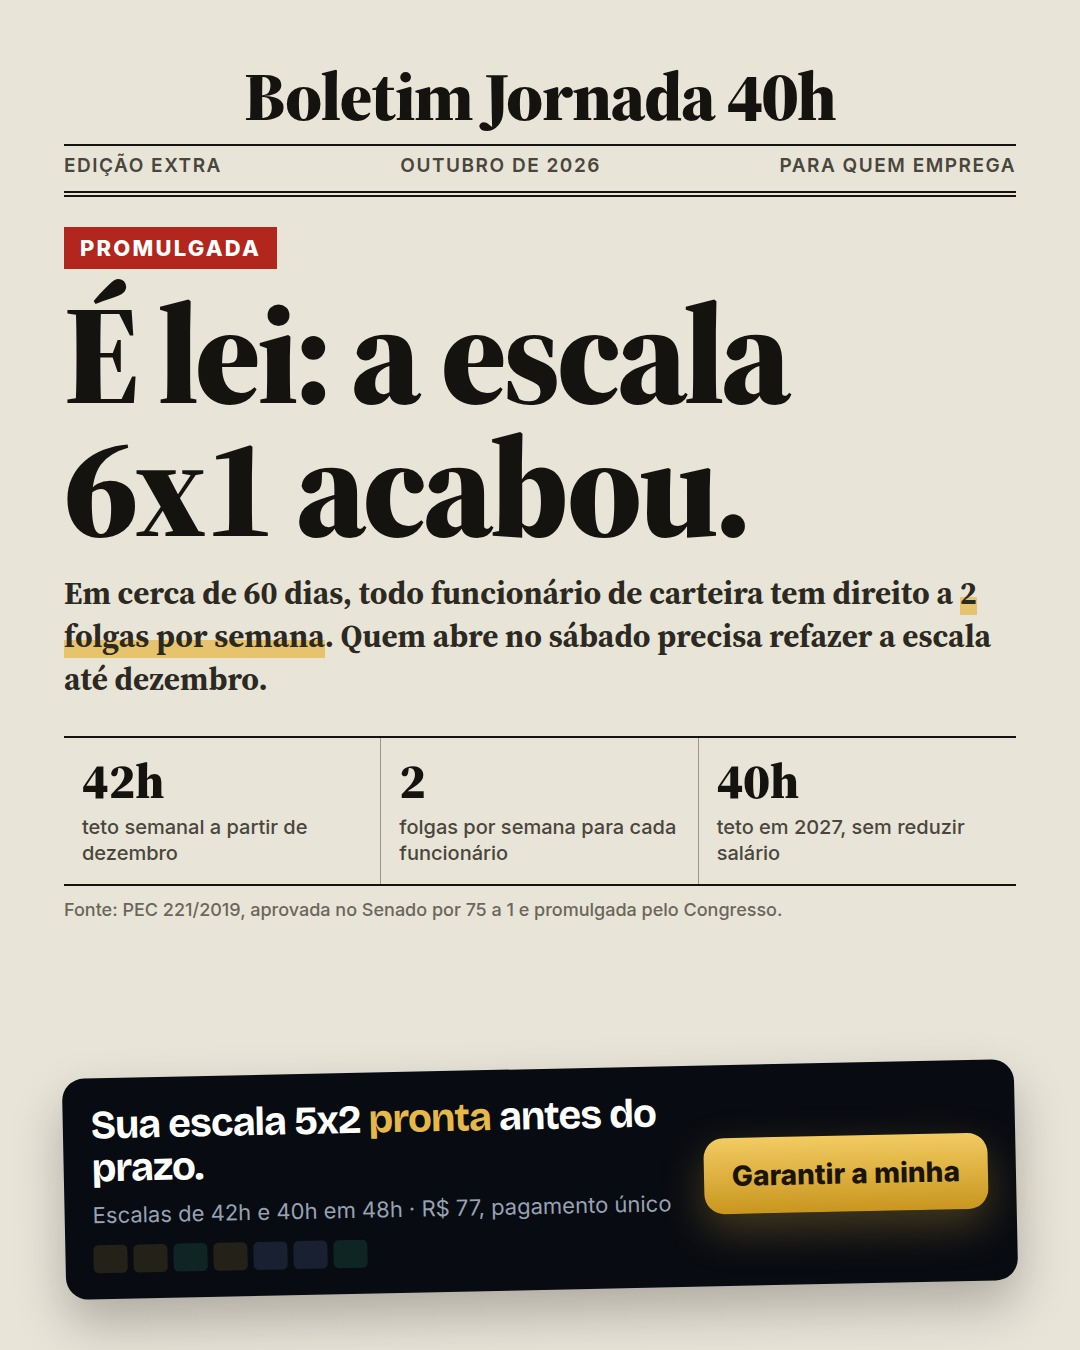
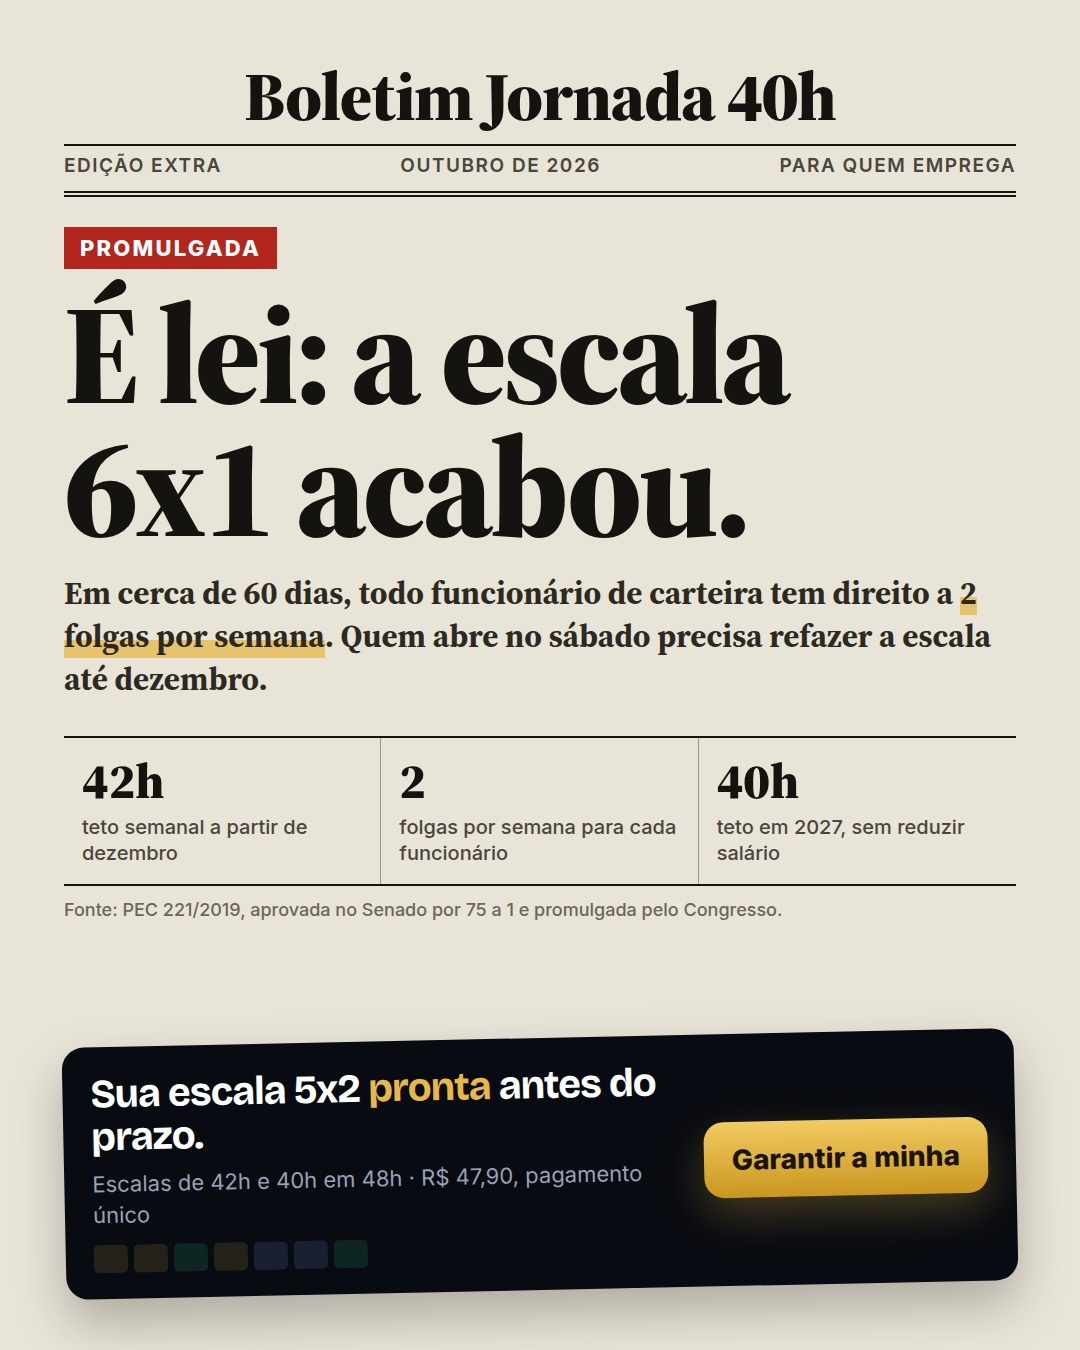
Criativos com R$ 47,90 e sem "grátis"; imagens públicas em site/ads/ para criar anúncios pela API
Claude-Session: https://claude.ai/code/session_013Lr8mQXt3cVjhu3fx1nCZP

Changed region(s): [[0.0611, 0.7467, 0.9472, 0.9022]]

diff --git a/criativos/v5-noticia/02-quando-vale-story.html b/criativos/v5-noticia/02-quando-vale-story.html
@@ -23,7 +23,7 @@
     <div class="checks"><span><svg viewBox="0 0 24 24" fill="none" stroke="currentColor" stroke-width="3" stroke-linecap="round" stroke-linejoin="round"><path d="M5 12l5 5 9-10"/></svg>Para padaria, restaurante, loja, mercado, farmácia e salão</span><span><svg viewBox="0 0 24 24" fill="none" stroke="currentColor" stroke-width="3" stroke-linecap="round" stroke-linejoin="round"><path d="M5 12l5 5 9-10"/></svg>Quem trabalha, em que turno e quem folga</span><span><svg viewBox="0 0 24 24" fill="none" stroke="currentColor" stroke-width="3" stroke-linecap="round" stroke-linejoin="round"><path d="M5 12l5 5 9-10"/></svg>Garantia incondicional de 7 dias</span></div>
   </div>
   <div class="strip">
-    <div class="offer"><strong>R$ 77</strong><span>pagamento único · garantia de 7 dias</span></div>
+    <div class="offer"><strong>R$ 47,90</strong><span>pagamento único · garantia de 7 dias</span></div>
     <span class="btn">Quero a minha <svg viewBox="0 0 24 24" fill="none" stroke="currentColor" stroke-width="3" stroke-linecap="round" stroke-linejoin="round"><path d="M5 12h14M13 6l6 6-6 6"/></svg></span>
   </div>
 </div></body></html>

diff --git a/criativos/v5-noticia/01-hora-extra-feed.html b/criativos/v5-noticia/01-hora-extra-feed.html
@@ -19,10 +19,10 @@
       <div><small>Dezembro de 2027</small><b><em>40h</em></b><span>por semana, sem reduzir salário</span></div>
     </div>
     <h2>Cobrir o sábado com hora extra vai <em>ficar mais caro</em>.</h2>
-    <p>Faça a conta grátis com a sua equipe e veja se ela fecha com <b>2 folgas por pessoa</b>. Se não fechar, a <b>escala 5x2 pronta</b> (versões de 42h e 40h) chega em até 48h.</p>
+    <p>Faça o diagnóstico com a sua equipe e veja se ela fecha com <b>2 folgas por pessoa</b>. Se não fechar, a <b>escala 5x2 pronta</b> (versões de 42h e 40h) chega em até 48h.</p>
   </div>
   <div class="strip">
-    <div class="offer"><strong>Conta grátis</strong><span>Calculadora 40h · com os números da sua equipe</span></div>
+    <div class="offer"><strong>Diagnóstico em 1 min</strong><span>Calculadora 40h · com os números da sua equipe</span></div>
     <span class="btn">Fazer a conta <svg viewBox="0 0 24 24" fill="none" stroke="currentColor" stroke-width="3" stroke-linecap="round" stroke-linejoin="round"><path d="M5 12h14M13 6l6 6-6 6"/></svg></span>
   </div>
 </div></body></html>

diff --git a/criativos/v4/01-escala-pronta-feed.html b/criativos/v4/01-escala-pronta-feed.html
@@ -27,7 +27,7 @@
   <p class="inc" style="margin:22px 0 0;font:500 30px/1.35 var(--sans);color:var(--muted)">Inclui a escala de <b style="color:#fff">42h (dezembro)</b> e a de <b style="color:#fff">40h</b> + acesso antecipado ao app.</p>
 
   <div class="cta">
-    <div class="price"><s>R$ 147</s><strong>R$ 77</strong><span>preço de fundador até 31/10 · pagamento único</span></div>
+    <div class="price"><s>R$ 77</s><strong>R$ 47,90</strong><span>preço de lançamento até 31/10 · pagamento único</span></div>
     <span class="btn">Quero a minha <svg viewBox="0 0 24 24" fill="none" stroke="currentColor" stroke-width="2.6" stroke-linecap="round" stroke-linejoin="round"><path d="M5 12h14M13 6l6 6-6 6"/></svg></span>
   </div>
 </div>

diff --git a/criativos/v5-noticia/02-quando-vale-feed.html b/criativos/v5-noticia/02-quando-vale-feed.html
@@ -22,7 +22,7 @@
     <p>Você conta o horário e a equipe. A gente devolve quem trabalha e quem folga em cada dia, em <b>PDF e planilha</b>.</p>
   </div>
   <div class="strip">
-    <div class="offer"><strong>R$ 77</strong><span>pagamento único · garantia de 7 dias</span></div>
+    <div class="offer"><strong>R$ 47,90</strong><span>pagamento único · garantia de 7 dias</span></div>
     <span class="btn">Quero a minha <svg viewBox="0 0 24 24" fill="none" stroke="currentColor" stroke-width="3" stroke-linecap="round" stroke-linejoin="round"><path d="M5 12h14M13 6l6 6-6 6"/></svg></span>
   </div>
 </div></body></html>

diff --git a/criativos/v5-noticia/03-quem-ja-e-5x2-feed.html b/criativos/v5-noticia/03-quem-ja-e-5x2-feed.html
@@ -27,7 +27,7 @@
     </div>
   </div>
   <div class="strip">
-    <div class="offer"><strong>Pronta em 48h</strong><span>42h e 40h · PDF + planilha · R$ 77</span></div>
+    <div class="offer"><strong>Pronta em 48h</strong><span>42h e 40h · PDF + planilha · R$ 47,90</span></div>
     <span class="btn">Quero a minha <svg viewBox="0 0 24 24" fill="none" stroke="currentColor" stroke-width="3" stroke-linecap="round" stroke-linejoin="round"><path d="M5 12h14M13 6l6 6-6 6"/></svg></span>
   </div>
 </div></body></html>

diff --git a/criativos/v4/03-jornal-e-lei-feed.html b/criativos/v4/03-jornal-e-lei-feed.html
@@ -47,7 +47,7 @@
   <div class="clip">
     <div>
       <h2>Sua escala 5x2 <em>pronta</em> antes do prazo.</h2>
-      <p>Escalas de 42h e 40h em 48h · R$ 77, pagamento único</p>
+      <p>Escalas de 42h e 40h em 48h · R$ 47,90, pagamento único</p>
       <div class="mini"><i></i><i></i><i class="f"></i><i></i><i class="t"></i><i class="t"></i><i class="f"></i></div>
     </div>
     <span class="btn">Garantir a minha</span>

diff --git a/criativos/v4/03-jornal-e-lei-story.html b/criativos/v4/03-jornal-e-lei-story.html
@@ -49,7 +49,7 @@
   <div class="clip">
     <div>
       <h2>Sua escala 5x2 <em>pronta</em> antes do prazo.</h2>
-      <p>Escalas de 42h e 40h em 48h · R$ 77, pagamento único</p>
+      <p>Escalas de 42h e 40h em 48h · R$ 47,90, pagamento único</p>
       <div class="mini"><i></i><i></i><i class="f"></i><i></i><i class="t"></i><i class="t"></i><i class="f"></i></div>
     </div>
     <span class="btn">Garantir a minha</span>

diff --git a/criativos/v4/01-escala-pronta-story.html b/criativos/v4/01-escala-pronta-story.html
@@ -34,7 +34,7 @@
   </div>
 
   <div class="cta">
-    <div class="price"><s>R$ 147</s><strong>R$ 77</strong><span>preço de fundador até 31/10</span></div>
+    <div class="price"><s>R$ 77</s><strong>R$ 47,90</strong><span>preço de lançamento até 31/10</span></div>
     <span class="btn">Quero a minha</span>
   </div>
 </div>
